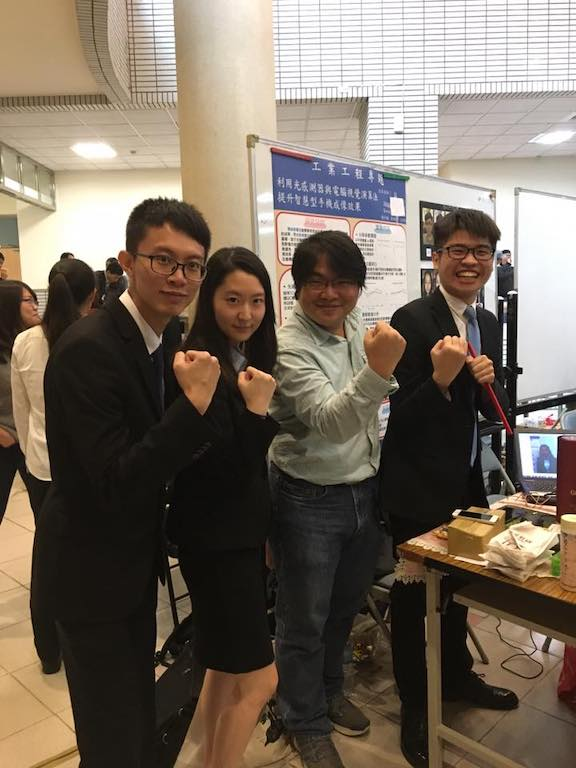
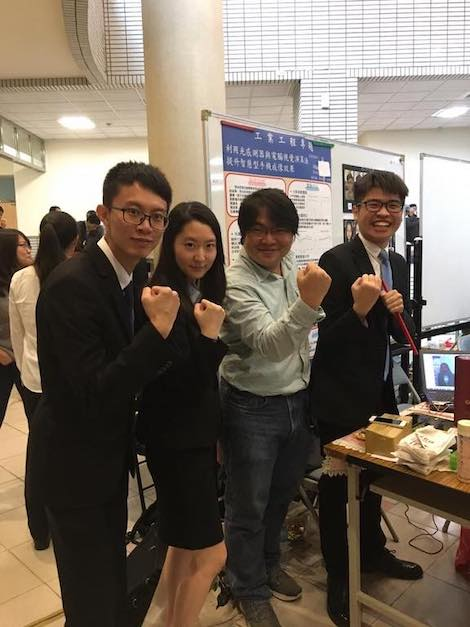
more responsive

diff --git a/projects.html b/projects.html
@@ -3,7 +3,7 @@
 <head>
   <title>My Web</title>
   <link href='https://fonts.googleapis.com/css?family=Fauna+One' rel='stylesheet' type='text/css'>
-  <link rel="stylesheet" href="https://stackpath.bootstrapcdn.com/bootstrap/4.1.3/css/bootstrap.min.css">
+  <link rel="stylesheet" href="https://stackpath.bootstrapcdn.com/bootstrap/4.1.3/css/bootstrap.min.css" integrity="sha384-MCw98/SFnGE8fJT3GXwEOngsV7Zt27NXFoaoApmYm81iuXoPkFOJwJ8ERdknLPMO" crossorigin="anonymous">
   <link rel="stylesheet" href="main.css">
 </head>
 <body>
@@ -36,7 +36,7 @@
     <div class="center-title">Rex Yang</div>
     <div class="center-title" style="margin-bottom: 20px;">Computer Vision | Deep Learning</div>
     <div class="wid-size center-title">
-        <img src="pic/CVGIP_large.jpg" style="height:auto; max-width:100%" id="a-pic">
+        <img src="pic/CVGIP_large.jpg" width=70% height="auto" id="a-pic">
     </div>
   </section>
 
@@ -57,7 +57,7 @@
   <!-- smart TV -->
   <section id="experience">
     <div class="container">
-      <p class="project-title" style="font-size:27px;">A Smart TV System with Multiple Human Computer Interaction Techniques</p>
+      <p class="project-title">A Smart TV System with Multiple Human Computer Interaction Techniques</p>
       <div class="video">
 
         <iframe width="875" height="493" src="https://www.youtube.com/embed/yUxCPZufDCw" frameborder="0" allow="accelerometer; autoplay; encrypted-media; gyroscope; picture-in-picture" allowfullscreen></iframe>
@@ -74,7 +74,7 @@
       <p class="project-title">Iris Recognition</p>
 
       <div class="center-title">
-          <img src="pic/iris.png">
+          <img src="pic/iris.png" width=70% height="auto">
       </div>
 
       <p class="project-content">This is a cooperation project with Novatek. We applied FCN model and ResNet-18 model to accomplish iris segmentation and recognition. And I managed to use an iris scanner (<a href="http://www.iritech.com/products/hardware/irishield™-series#" style="color:black; font-weight:bold;">IriShield MK 2120U</a>) and its SDK to develop an iris recognition system. I used image processing techniques to close the gap between training data of the models and images captured by the device. I also integrated different models by cloud computing.</p>
@@ -88,7 +88,7 @@
         <p class="project-title">4K 360 degree Panorama Video</p>
 
         <div class="center-title">
-            <img src="pic/panorama.jpg">
+            <img src="pic/panorama.jpg" width=70% height="auto">
         </div>
 
         <p class="project-content">This is a cooperation project with Industrial Technology Research Institute. We applied OpenCV to develop image stitching algorithms for real-time panorama videos. I designed a color correction approach to eliminate visual artifacts and applied CUDA programming and OpenMP to accelerate the algorithm. Our algorithm is able to stitch a 4k panorama image in 0.03 second with GeForce GTX TITAN X.</p>
@@ -113,7 +113,7 @@
   <!-- beautifying app -->
   <section id="experience">
     <div class="container">
-      <p class="project-title" style="font-size: 28px;">Improve the visual quality of smartphone camera using light sensors and computer vision algorithms</p>
+      <p class="project-title">Improve the visual quality of smartphone camera using light sensors and computer vision algorithms</p>
     </div>
       <div class="row">
         <div class="col-sm-6">
@@ -160,6 +160,9 @@
     </div>
   </section>
 
-    <script src="https://stackpath.bootstrapcdn.com/bootstrap/4.1.3/js/bootstrap.min.js"></script> 
+  <script src="https://code.jquery.com/jquery-3.3.1.slim.min.js" integrity="sha384-q8i/X+965DzO0rT7abK41JStQIAqVgRVzpbzo5smXKp4YfRvH+8abtTE1Pi6jizo" crossorigin="anonymous"></script>
+  <script src="https://cdnjs.cloudflare.com/ajax/libs/popper.js/1.14.3/umd/popper.min.js" integrity="sha384-ZMP7rVo3mIykV+2+9J3UJ46jBk0WLaUAdn689aCwoqbBJiSnjAK/l8WvCWPIPm49" crossorigin="anonymous"></script>
+  <script src="https://stackpath.bootstrapcdn.com/bootstrap/4.1.3/js/bootstrap.min.js" integrity="sha384-ChfqqxuZUCnJSK3+MXmPNIyE6ZbWh2IMqE241rYiqJxyMiZ6OW/JmZQ5stwEULTy" crossorigin="anonymous"></script>
+
 </body>
 </html>

diff --git a/index.html b/index.html
@@ -3,8 +3,9 @@
 <head>
   <title>My Web</title>
   <link href='https://fonts.googleapis.com/css?family=Fauna+One' rel='stylesheet' type='text/css'>
-  <link rel="stylesheet" href="https://stackpath.bootstrapcdn.com/bootstrap/4.1.3/css/bootstrap.min.css">
+  <link rel="stylesheet" href="https://stackpath.bootstrapcdn.com/bootstrap/4.1.3/css/bootstrap.min.css" integrity="sha384-MCw98/SFnGE8fJT3GXwEOngsV7Zt27NXFoaoApmYm81iuXoPkFOJwJ8ERdknLPMO" crossorigin="anonymous">
   <link rel="stylesheet" href="main.css">
+
 </head>
 <body>
   <section id="head">
@@ -30,14 +31,13 @@
               </li>
             </ul>
           </div>
-
         </nav>
       </div>
     </header>
     <div class="center-title">Rex Yang</div>
     <div class="center-title" style="margin-bottom: 20px;">Computer Vision | Deep Learning</div>
     <div class="center-title">
-        <img src="pic/headshot.png" id="a-pic">
+        <img src="pic/headshot.png" id="a-pic" width=60% height="auto">
     </div>
   </section>
 
@@ -78,13 +78,15 @@
           <p class="p-mid">BS in Industrial Management,</p>
           <p class="p-mid p-br">National Tsing Hua University</p>
           <a href="projects.html"><p class="p-mid">Learn about what I did</p></a>
-          <a href="https://l.facebook.com/l.php?u=https%3A%2F%2Fdrive.google.com%2Ffile%2Fd%2F1twmkgBq_GKyDaiprDKqiUMOlMgIY79uU%2Fview%3Fusp%3Dsharing%26fbclid%3DIwAR0ljxCGZ3NXE9X2LvD-Hzh5QYGKwqTtoGos1zcWvIKM02QKzT5MG_yg4l4&h=AT2Hj0g6mXaHDXb4cz1e0GYKDGbhBtQL1yicelCufyop6HuLrqYrBopzAFha-81-p2uEl4pYdKl7o1m-4Y5mnPA0j7YmpoahwikJFM8wazQV9cfNCEX2T5zM4Eix-o1HSOf-QtD4fiqx9NfsKCfmxuP6dLk"><p class="p-mid">View My Resume</a>
+          <a href="https://drive.google.com/open?id=117OLHVf51ippwZiYynRQgYldkjdxRI3d"><p class="p-mid">View My Resume</a>
         </div>
       </div>
     </div>
   </section>
 
+  <script src="https://code.jquery.com/jquery-3.3.1.slim.min.js" integrity="sha384-q8i/X+965DzO0rT7abK41JStQIAqVgRVzpbzo5smXKp4YfRvH+8abtTE1Pi6jizo" crossorigin="anonymous"></script>
+  <script src="https://cdnjs.cloudflare.com/ajax/libs/popper.js/1.14.3/umd/popper.min.js" integrity="sha384-ZMP7rVo3mIykV+2+9J3UJ46jBk0WLaUAdn689aCwoqbBJiSnjAK/l8WvCWPIPm49" crossorigin="anonymous"></script>
+  <script src="https://stackpath.bootstrapcdn.com/bootstrap/4.1.3/js/bootstrap.min.js" integrity="sha384-ChfqqxuZUCnJSK3+MXmPNIyE6ZbWh2IMqE241rYiqJxyMiZ6OW/JmZQ5stwEULTy" crossorigin="anonymous"></script>
 
-  <script src="https://stackpath.bootstrapcdn.com/bootstrap/4.1.3/js/bootstrap.min.js"></script> 
 </body>
 </html>

diff --git a/main.css b/main.css
@@ -3,22 +3,12 @@ body {
   font-family: 'Fauna One', serif;
   text-align: justify;
   text-justify: inter-ideograph;
-  line-height: 45px;
 }
 
 .center-title {
     margin: auto;
     text-align: center;
-    font-size: 30px;
-    margin-bottom: 10px;
-    margin-top: 10px;
 }
-
-p {
-    font-size: 20px;
-    margin-bottom: -10px;
-}
-
 
 .p-mid {
     text-align: center;
@@ -26,25 +16,12 @@ p {
 }
 
 .p-title {
-    font-size:28px;
     font-weight: bold;
-}
-
-.p-br {
-    margin-bottom:20px;
 }
 
 .project-title {
-    margin-top: 25px;
-    margin-bottom: 40px;
-    font-size: 35px;
     font-weight: bold;
     text-align: center;
-}
-
-.project-content {
-    margin-top: 30px;
-    line-height: 30px;
 }
 
 #a-pic {
@@ -89,9 +66,80 @@ p {
 }
 
 #cvlab::before {
-    height: 50px;
     width: 0px;
     margin: 0 auto;
     content: "";
     display: block;
+}
+
+@media screen and (min-width: 601px) {
+    .center-title  {
+        font-size: 30px;
+        margin-bottom: 10px;
+        margin-top: 10px;
+    }
+    body {
+      line-height: 45px;
+    }
+    p {
+        font-size: 20px;
+        margin-bottom: -10px;
+    }
+   .p-title {
+        font-size: 28px;
+    }
+    .p-br {
+        margin-bottom:20px;
+    }
+    .project-title {
+        margin-top: 25px;
+        margin-bottom: 40px;
+        font-size: 35px;
+    }
+    .project-content {
+        margin-top: 30px;
+        line-height: 30px;
+    }
+    #cvlab::before {
+        height: 50px;
+    }
+    #experience::before {
+        height: 50px;
+    }
+}
+
+@media screen and (max-width: 600px) {
+    .center-title  {
+        font-size: 15px;
+        margin-bottom: 5px;
+        margin-top: 5px;
+    }
+    body {
+      line-height: 22px;
+    }
+    p {
+        font-size: 12px;
+        margin-bottom: -5px;
+    }
+    .p-title {
+        font-size: 14px;
+    }
+    .p-br {
+        margin-bottom:10px;
+    }
+    .project-title {
+        margin-top: 12px;
+        margin-bottom: 20px;
+        font-size: 17px;
+    }
+    .project-content {
+        margin-top: 15px;
+        line-height: 15px;
+    }
+    #cvlab::before {
+        height: 25px;
+    }
+    #experience::before {
+        height: 25px;
+    }
 }

diff --git a/extracurricular.html b/extracurricular.html
@@ -3,7 +3,7 @@
 <head>
   <title>My Web</title>
   <link href='https://fonts.googleapis.com/css?family=Fauna+One' rel='stylesheet' type='text/css'>
-  <link rel="stylesheet" href="https://stackpath.bootstrapcdn.com/bootstrap/4.1.3/css/bootstrap.min.css">
+  <link rel="stylesheet" href="https://stackpath.bootstrapcdn.com/bootstrap/4.1.3/css/bootstrap.min.css" integrity="sha384-MCw98/SFnGE8fJT3GXwEOngsV7Zt27NXFoaoApmYm81iuXoPkFOJwJ8ERdknLPMO" crossorigin="anonymous">
   <link rel="stylesheet" href="main.css">
 </head>
 <body>
@@ -61,7 +61,7 @@
   <!-- IEEM Camp video -->
   <section id="experience">
     <div class="container">
-      <p class="project-title" style="font-size: 23px;">This is a video I made for all the workers in 2015 IEEM Camp.</p>
+      <p class="project-title">This is a video I made for all the workers in 2015 IEEM Camp.</p>
     </div>
     <div class="video">
       <iframe width="975" height="493" src="https://www.youtube.com/embed/l9RBhWloS14" frameborder="0" allow="accelerometer; autoplay; encrypted-media; gyroscope; picture-in-picture" allowfullscreen></iframe>
@@ -69,8 +69,10 @@
       
       <br>
   </section>
+  
+  <script src="https://code.jquery.com/jquery-3.3.1.slim.min.js" integrity="sha384-q8i/X+965DzO0rT7abK41JStQIAqVgRVzpbzo5smXKp4YfRvH+8abtTE1Pi6jizo" crossorigin="anonymous"></script>
+  <script src="https://cdnjs.cloudflare.com/ajax/libs/popper.js/1.14.3/umd/popper.min.js" integrity="sha384-ZMP7rVo3mIykV+2+9J3UJ46jBk0WLaUAdn689aCwoqbBJiSnjAK/l8WvCWPIPm49" crossorigin="anonymous"></script>
+  <script src="https://stackpath.bootstrapcdn.com/bootstrap/4.1.3/js/bootstrap.min.js" integrity="sha384-ChfqqxuZUCnJSK3+MXmPNIyE6ZbWh2IMqE241rYiqJxyMiZ6OW/JmZQ5stwEULTy" crossorigin="anonymous"></script>
 
-
-    <script src="https://stackpath.bootstrapcdn.com/bootstrap/4.1.3/js/bootstrap.min.js"></script> 
 </body>
 </html>
